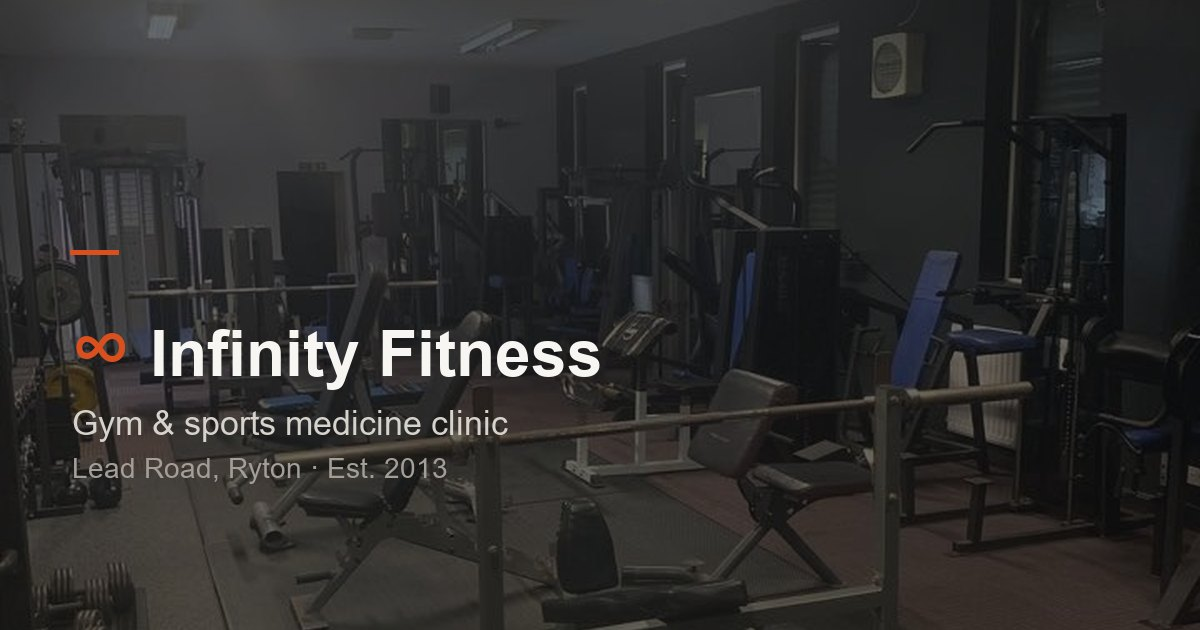
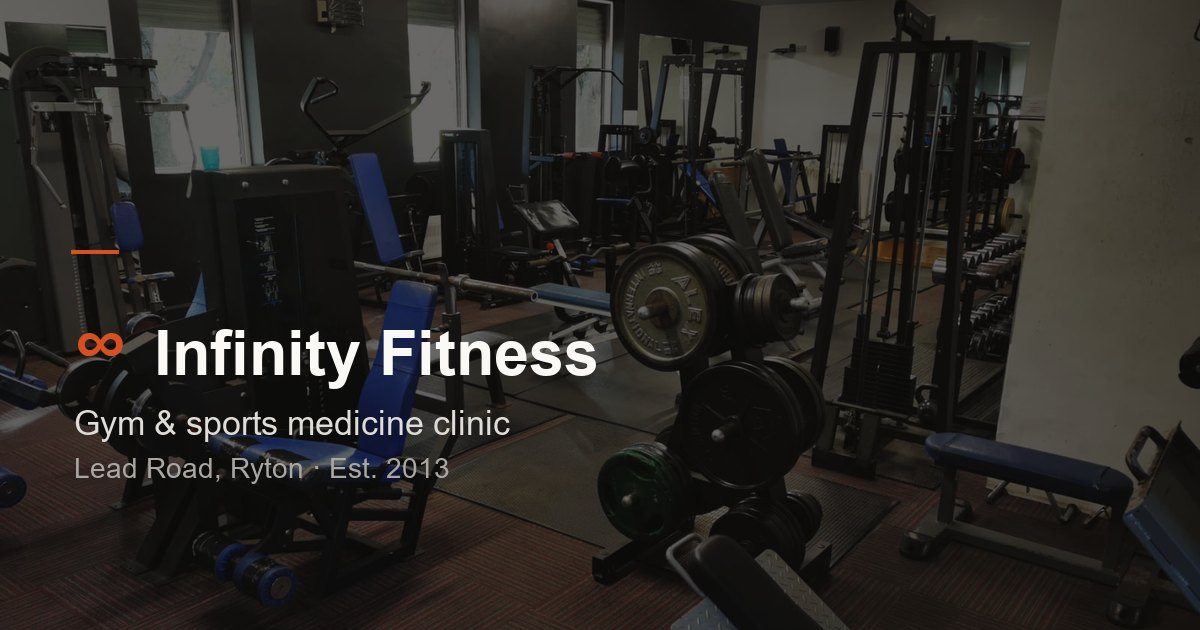
Gallery: six photos from the owner replace the Facebook placeholders
Camera watermark cropped off, photos now 3:2. Social card rebuilt over the free weights photo in the same layout. Gallery sizes hint scaled for 3:2 photos in square tiles. build-dist.py gains --preview. PT card made generic. AI tooling files ignored.

diff --git a/index.html b/index.html
@@ -719,7 +719,7 @@
         <div class="card reveal"><svg class="icon" viewBox="0 0 24 24" fill="currentColor" aria-hidden="true"><rect x="1.5" y="9" width="2.5" height="6" rx="1"/><rect x="20" y="9" width="2.5" height="6" rx="1"/><rect x="5" y="6.5" width="4" height="11" rx="1.5"/><rect x="15" y="6.5" width="4" height="11" rx="1.5"/><rect x="9" y="10.5" width="6" height="3" rx="1" opacity=".45"/></svg><span class="tag">Strength</span><h3>Resistance &amp; conditioning</h3><p>Free weights, machines and conditioning work for building strength at your own pace.</p></div>
         <div class="card reveal"><svg class="icon" viewBox="0 0 24 24" fill="none" stroke="currentColor" stroke-width="2" stroke-linecap="round" stroke-linejoin="round" aria-hidden="true"><circle cx="12" cy="13.5" r="7.5"/><path d="M12 9.5v4l2.6 2"/><path d="M9.5 2.5h5M12 2.5V6" opacity=".45"/></svg><span class="tag">Group class</span><h3>Circuits</h3><p>Timed, full-body group sessions, friendly and scaled to suit everyone in the room.</p></div>
         <div class="card reveal"><svg class="icon" viewBox="0 0 24 24" aria-hidden="true"><path d="M12 21s-7-4.35-9.5-9A5.5 5.5 0 0 1 12 6a5.5 5.5 0 0 1 9.5 6c-2.5 4.65-9.5 9-9.5 9z" fill="currentColor" opacity=".3"/><path d="M3 12.5h4l2-3.5 3 7 2-4.5 1.5 1h5.5" fill="none" stroke="currentColor" stroke-width="2" stroke-linecap="round" stroke-linejoin="round"/></svg><span class="tag">Cardio</span><h3>Cardio suite</h3><p>Open cardio floor for endurance work, on its own or alongside a class.</p></div>
-        <div class="card spotlight reveal"><svg class="icon" viewBox="0 0 24 24" fill="currentColor" aria-hidden="true"><circle cx="10" cy="7.5" r="3.5"/><path d="M3 20c0-4 3.1-6.5 7-6.5s7 2.5 7 6.5z"/><path d="M18.5 3.5l1 2.1 2.3.3-1.7 1.6.4 2.3-2-1.1-2 1.1.4-2.3-1.7-1.6 2.3-.3z" opacity=".5"/></svg><span class="tag">Personal training &middot; Limitless</span><h3>1:1 PT with Jack Ward</h3><p>One-to-one coaching built around your own goals and starting point.</p></div>
+        <div class="card spotlight reveal"><svg class="icon" viewBox="0 0 24 24" fill="currentColor" aria-hidden="true"><circle cx="10" cy="7.5" r="3.5"/><path d="M3 20c0-4 3.1-6.5 7-6.5s7 2.5 7 6.5z"/><path d="M18.5 3.5l1 2.1 2.3.3-1.7 1.6.4 2.3-2-1.1-2 1.1.4-2.3-1.7-1.6 2.3-.3z" opacity=".5"/></svg><span class="tag">Personal training</span><h3>One-to-one coaching</h3><p>Built around your goals and your starting point. Have a word at reception or give us a ring.</p></div>
       </div>
     </div>
   </section>
@@ -729,27 +729,65 @@
     <div class="wrap">
       <div class="section-head"><div><span class="eyebrow">Inside</span><h2>Have a look round</h2></div></div>
       <div class="gallery-grid">
+        <!-- The photos are 3:2 and the tiles are square, so each one is drawn at
+             1.5x the tile's width. sizes says so, or desktops pick the 480 and stretch it. -->
 
-        <button type="button" class="shot reveal" data-full="assets/gallery/rack-and-platform-720.jpg">
+        <button type="button" class="shot reveal" data-full="assets/gallery/gym-floor-960.jpg">
           <picture>
-            <source type="image/webp" sizes="(max-width:560px) 100vw, (max-width:860px) 50vw, 33vw"
-                    srcset="assets/gallery/rack-and-platform-480.webp 480w, assets/gallery/rack-and-platform-720.webp 720w">
-            <img src="assets/gallery/rack-and-platform-720.jpg" width="720" height="960" loading="lazy" decoding="async"
-                 alt="Squat rack set over a wooden lifting platform, with an adjustable bench, weight plates and full-length mirrors.">
+            <source type="image/webp" sizes="(max-width:560px) 100vw, (max-width:860px) 75vw, 50vw"
+                    srcset="assets/gallery/gym-floor-480.webp 480w, assets/gallery/gym-floor-960.webp 960w">
+            <img src="assets/gallery/gym-floor-960.jpg" width="960" height="640" loading="lazy" decoding="async"
+                 alt="The main gym floor, with resistance machines down one side, benches on rubber matting, racks of dumbbells and mirrors along the wall.">
           </picture>
         </button>
 
-        <button type="button" class="shot reveal" data-full="assets/gallery/main-floor-720.jpg">
+        <button type="button" class="shot reveal" data-full="assets/gallery/free-weights-960.jpg">
           <picture>
-            <source type="image/webp" sizes="(max-width:560px) 100vw, (max-width:860px) 50vw, 33vw"
-                    srcset="assets/gallery/main-floor-480.webp 480w, assets/gallery/main-floor-720.webp 720w">
-            <img src="assets/gallery/main-floor-720.jpg" width="720" height="960" loading="lazy" decoding="async"
-                 alt="The main gym floor, lined with resistance machines, benches, an Olympic bar and dumbbells.">
+            <source type="image/webp" sizes="(max-width:560px) 100vw, (max-width:860px) 75vw, 50vw"
+                    srcset="assets/gallery/free-weights-480.webp 480w, assets/gallery/free-weights-960.webp 960w">
+            <img src="assets/gallery/free-weights-960.jpg" width="960" height="640" loading="lazy" decoding="async"
+                 alt="Free weights and machines, with Olympic bars and plates, a leg extension, benches, a cable station and a dumbbell rack.">
+          </picture>
+        </button>
+
+        <button type="button" class="shot reveal" data-full="assets/gallery/lifting-platform-960.jpg">
+          <picture>
+            <source type="image/webp" sizes="(max-width:560px) 100vw, (max-width:860px) 75vw, 50vw"
+                    srcset="assets/gallery/lifting-platform-480.webp 480w, assets/gallery/lifting-platform-960.webp 960w">
+            <img src="assets/gallery/lifting-platform-960.jpg" width="960" height="640" loading="lazy" decoding="async"
+                 alt="A lifting platform with a loaded barbell, beside a bench and a cable machine, in front of a wall of mirrors.">
+          </picture>
+        </button>
+
+        <button type="button" class="shot reveal" data-full="assets/gallery/cardio-suite-960.jpg">
+          <picture>
+            <source type="image/webp" sizes="(max-width:560px) 100vw, (max-width:860px) 75vw, 50vw"
+                    srcset="assets/gallery/cardio-suite-480.webp 480w, assets/gallery/cardio-suite-960.webp 960w">
+            <img src="assets/gallery/cardio-suite-960.jpg" width="960" height="640" loading="lazy" decoding="async"
+                 alt="The cardio suite, with treadmills, a rowing machine and exercise bikes beside a red feature wall.">
+          </picture>
+        </button>
+
+        <button type="button" class="shot reveal" data-full="assets/gallery/cardio-room-960.jpg">
+          <picture>
+            <source type="image/webp" sizes="(max-width:560px) 100vw, (max-width:860px) 75vw, 50vw"
+                    srcset="assets/gallery/cardio-room-480.webp 480w, assets/gallery/cardio-room-960.webp 960w">
+            <img src="assets/gallery/cardio-room-960.jpg" width="960" height="640" loading="lazy" decoding="async"
+                 alt="More of the cardio suite: rowing machines, exercise bikes, a stepper and a treadmill.">
+          </picture>
+        </button>
+
+        <button type="button" class="shot reveal" data-full="assets/gallery/studio-960.jpg">
+          <picture>
+            <source type="image/webp" sizes="(max-width:560px) 100vw, (max-width:860px) 75vw, 50vw"
+                    srcset="assets/gallery/studio-480.webp 480w, assets/gallery/studio-960.webp 960w">
+            <img src="assets/gallery/studio-960.jpg" width="960" height="640" loading="lazy" decoding="async"
+                 alt="The studio, with spin bikes, a punch bag and boxing dummy, plyo boxes, kettlebells and a mirrored wall.">
           </picture>
         </button>
 
       </div>
-      <p class="gallery-note">Photographs of the gym as it is now. More to follow.</p>
+      <p class="gallery-note">Photographs of the gym as it is now.</p>
     </div>
   </section>
 
@@ -1036,8 +1074,8 @@
        payer's bank checks this against the real account holder (Confirmation of
        Payee) and a wrong name triggers a mismatch warning mid-payment. */
     name:     "",
-    sortCode: "",
-    account:  ""
+    sortCode: "08-71-99",
+    account:  "78966031"
   };
 
   var picker = document.getElementById("plan-picker");

diff --git a/tools/build-dist.py b/tools/build-dist.py
@@ -2,9 +2,12 @@
 """
 Assemble exactly what should go on the public server, into dist/.
 
-    python tools/build-dist.py
+    python tools/build-dist.py              the real site, into dist/
+    python tools/build-dist.py --preview    a test copy, into dist-preview/
 
-Then drag the dist folder into Cloudflare Pages.
+Then drag the folder into Cloudflare Pages. The two builds land in different
+folders so a test copy, which hides itself from search engines, cannot be
+handed over as the launch by mistake.
 
 The point of this is not convenience, it is to stop the wrong things going up.
 docs/ holds the meeting notes and the working arrangement, and shots/ and
@@ -24,6 +27,7 @@ from pathlib import Path
 
 ROOT = Path(__file__).resolve().parent.parent
 DIST = ROOT / "dist"
+DIST_PREVIEW = ROOT / "dist-preview"
 CONFIG = ROOT / "payee.local.json"
 
 # the URL index.html carries in the repo, swapped for the real one at build time
@@ -50,6 +54,15 @@ Disallow: /tools/
 
 Sitemap: %s/sitemap.xml
 """
+
+# A preview carries facts nobody has signed off yet. Getting that indexed under
+# the gym's name, then having it outrank the real site later, is a mess worth
+# one line of prevention.
+ROBOTS_PREVIEW = """User-agent: *
+Disallow: /
+"""
+
+NOINDEX_TAG = '<meta name="robots" content="noindex, nofollow">'
 
 SITEMAP = """<?xml version="1.0" encoding="UTF-8"?>
 <urlset xmlns="http://www.sitemaps.org/schemas/sitemap/0.9">
@@ -117,13 +130,17 @@ def fill_payee(html, payee):
 
 
 def main():
+    preview = "--preview" in sys.argv
+    out = DIST_PREVIEW if preview else DIST
     config = load_config()
     site_url = (config.get("siteUrl") or PLACEHOLDER_URL).rstrip("/")
+    if preview and config.get("previewUrl"):
+        site_url = config["previewUrl"].rstrip("/")
     payee = config.get("payee") or {}
 
-    if DIST.exists():
-        shutil.rmtree(DIST)
-    DIST.mkdir(parents=True)
+    if out.exists():
+        shutil.rmtree(out)
+    out.mkdir(parents=True)
 
     missing = []
     copied = 0
@@ -133,7 +150,7 @@ def main():
         if not src.is_file():
             missing.append(rel)
             continue
-        dst = DIST / rel
+        dst = out / rel
         dst.parent.mkdir(parents=True, exist_ok=True)
         shutil.copy2(src, dst)
         copied += 1
@@ -143,22 +160,31 @@ def main():
         if not src.is_dir():
             missing.append(rel + "/")
             continue
-        dst = DIST / rel
+        dst = out / rel
         shutil.copytree(src, dst)
         copied += sum(1 for _ in dst.rglob("*") if _.is_file())
 
     # the built page, not the source, is where the real values belong
-    page = DIST / "index.html"
+    page = out / "index.html"
     url_hits = 0
     if page.is_file():
         html = page.read_text(encoding="utf-8")
         html = fill_payee(html, payee)
         url_hits = html.count(PLACEHOLDER_URL)
         html = html.replace(PLACEHOLDER_URL, site_url)
+        if preview and NOINDEX_TAG not in html:
+            # after the charset declaration, which browsers want to see first
+            anchor = '<meta charset="UTF-8">'
+            if anchor not in html:
+                sys.exit("STOP: could not find the charset meta to insert noindex after.")
+            html = html.replace(anchor, anchor + "\n" + NOINDEX_TAG, 1)
         page.write_text(html, encoding="utf-8")
 
-    (DIST / "robots.txt").write_text(ROBOTS % site_url, encoding="utf-8")
-    (DIST / "sitemap.xml").write_text(SITEMAP % site_url, encoding="utf-8")
+    if preview:
+        (out / "robots.txt").write_text(ROBOTS_PREVIEW, encoding="utf-8")
+    else:
+        (out / "robots.txt").write_text(ROBOTS % site_url, encoding="utf-8")
+        (out / "sitemap.xml").write_text(SITEMAP % site_url, encoding="utf-8")
 
     if missing:
         print("MISSING, not copied:")
@@ -167,12 +193,12 @@ def main():
         print()
 
     total = 0
-    print("dist/ contents:")
-    for f in sorted(DIST.rglob("*")):
+    print("%s/ contents:" % out.name)
+    for f in sorted(out.rglob("*")):
         if f.is_file():
             size = f.stat().st_size
             total += size
-            print("  %-42s %7.1f KB" % (f.relative_to(DIST).as_posix(), size / 1024))
+            print("  %-42s %7.1f KB" % (f.relative_to(out).as_posix(), size / 1024))
 
     print()
     print("%d files, %.1f MB total" % (copied + 1, total / (1024 * 1024)))
@@ -194,21 +220,25 @@ def main():
         if have:
             print("              (have %s)" % ", ".join(have))
 
-    if site_url == PLACEHOLDER_URL:
+    if preview:
+        print("Mode:         PREVIEW, in dist-preview/. noindex on the page, robots.txt")
+        print("              blocks everything, no sitemap. Not for the real launch:")
+        print("              that is dist/, from a build without --preview.")
+    elif site_url == PLACEHOLDER_URL:
         print()
         print("NOTE: still on the placeholder domain. The canonical URL and the social")
         print("      preview image will both be wrong once this is live on the real one.")
 
     # a public page that leaked the working notes would be genuinely bad, so check
-    leaked = [f.relative_to(DIST).as_posix() for f in DIST.rglob("*")
+    leaked = [f.relative_to(out).as_posix() for f in out.rglob("*")
               if f.is_file() and (
                   "for-the-owner" in f.name or "meeting-notes" in f.name
                   or "launch-plan" in f.name or "pre-redesign" in f.name
                   or f.name == "payee.local.json")]
     if leaked:
-        sys.exit("STOP: working documents ended up in dist/: %s" % ", ".join(leaked))
+        sys.exit("STOP: working documents ended up in %s/: %s" % (out.name, ", ".join(leaked)))
     print()
-    print("Checked: no working documents in dist/. Safe to upload.")
+    print("Checked: no working documents in %s/. Safe to upload." % out.name)
 
 
 if __name__ == "__main__":
